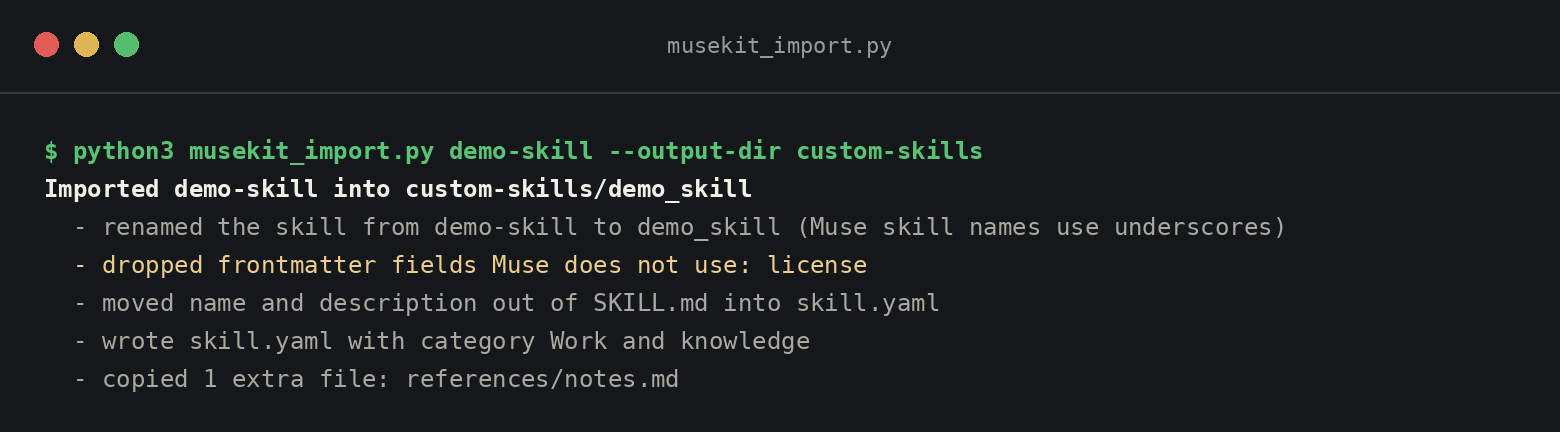
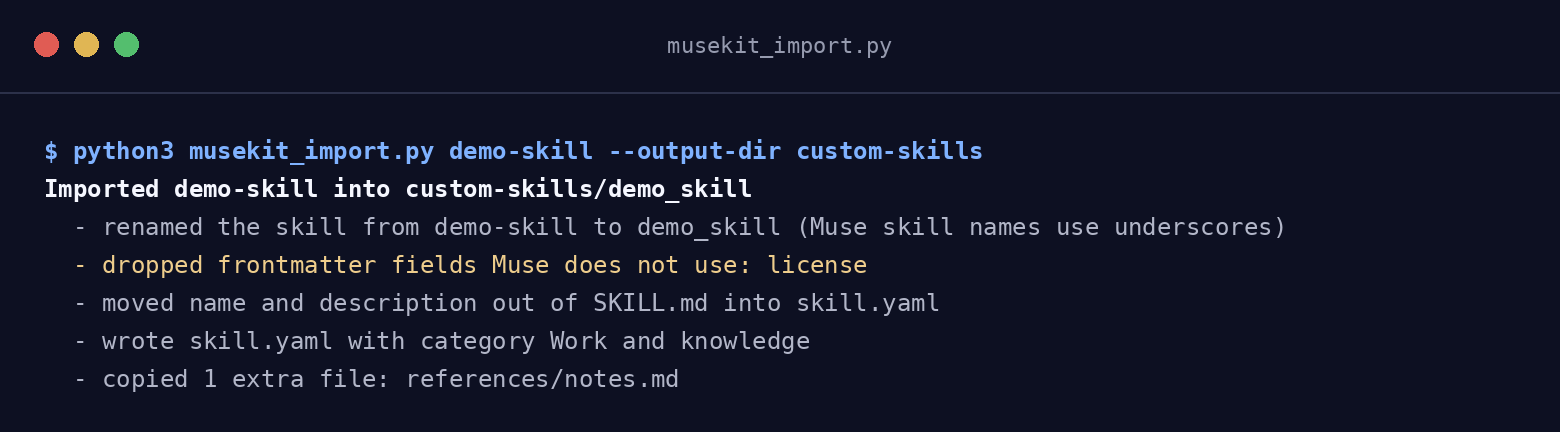
v0.1.2: MuseKit gets its own Meta AI gradient identity

diff --git a/README.md b/README.md
@@ -1,9 +1,9 @@
 ![MuseKit](assets/masthead.png)
 
 [![Release](https://img.shields.io/github/v/release/Dongdarealest/musekit)](https://github.com/Dongdarealest/musekit/releases)
-[![License: MIT](https://img.shields.io/badge/License-MIT-141414.svg)](LICENSE)
-![Python 3.10+](https://img.shields.io/badge/Python-3.10%2B-141414.svg)
-![Skills: 3 starter](https://img.shields.io/badge/Skills-3%20starter-141414.svg)
+[![License: MIT](https://img.shields.io/badge/License-MIT-0064D1.svg)](LICENSE)
+![Python 3.10+](https://img.shields.io/badge/Python-3.10%2B-0064D1.svg)
+![Skills: 3 starter](https://img.shields.io/badge/Skills-3%20starter-0064D1.svg)
 
 **Muse can learn skills. Almost nobody knows, and there is no store.**
 
@@ -61,7 +61,7 @@ Copy a starter skill, rename the folder, edit both files. The folder name and th
 
 MuseKit is free and MIT licensed. If it saves you time, you can support the workshop:
 
-[![GitHub Sponsors](https://img.shields.io/badge/GitHub%20Sponsors-Support-141414?style=for-the-badge&logo=githubsponsors&logoColor=EA4AAA)](https://github.com/sponsors/Dongdarealest)
+[![GitHub Sponsors](https://img.shields.io/badge/GitHub%20Sponsors-Support-0A0D26?style=for-the-badge&logo=githubsponsors&logoColor=EA4AAA)](https://github.com/sponsors/Dongdarealest)
 [![Ko-fi](https://img.shields.io/badge/Ko--fi-Buy%20a%20coffee-141414?style=for-the-badge&logo=kofi&logoColor=FF5E5B)](https://ko-fi.com/dongdarealest)
 
 ## Contributing

diff --git a/CHANGELOG.md b/CHANGELOG.md
@@ -1,5 +1,10 @@
 # Changelog
 
+## 0.1.2, 2026-11-22
+
+- New identity of its own: MuseKit now wears the Meta AI gradient ring on deep indigo with clean sans type, instead of the ink and gold workshop look shared with SkillPort and SkillDoctor.
+- Masthead, demo shot and social card rebuilt in the new identity; README badges and Support buttons recolored to match.
+
 ## 0.1.1, 2026-11-22
 
 - README rebuilt around a designed masthead, a real importer demo shot, and a thirty second quick start.
